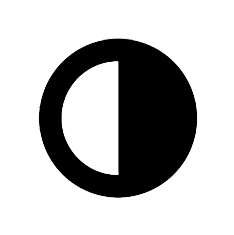
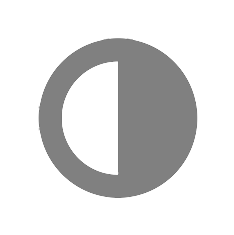
update 12.23

Changed region(s): [[0.1496, 0.1489, 0.8675, 0.8638]]

diff --git a/_includes/header.html b/_includes/header.html
@@ -68,13 +68,13 @@
             </nav><!-- .header__sns -->
             <div class="header__logo sp" >
                 <a href="{{site.url}}">
-                    <p class="header__logoTxt"><img src="{{ site.url }}/img/logo_Nest.png" alt="Riino BLOG"></p>
+                    <p class="header__logoTxt black-white-image"><img src="{{ site.url }}/img/logo_Nest.png" alt="Riino BLOG"></p>
                 </a>
             </div><!-- .header__logo -->
 
             <div class="header__logo sp"   style="margin-left: 20px;" onclick="modeSwitcher()" >
                 <a href="javascript:void(0);">
-                    <p class="header__logoTxt"><img src="{{ site.url }}/img/switcher.png" alt="Riino BLOG"></p>
+                    <p class="header__logoTxt black-white-image"><img src="{{ site.url }}/img/switcher.png" alt="Riino BLOG"></p>
                 </a>
             </div><!-- .swithcer__logo -->
 
@@ -109,65 +109,52 @@ if (systemInitiatedDark.matches) {
     $("#theme-toggle").html("Dark Mode");
     $("#theme-toggle-mobile").html("Dark Mode");
 }
+function setAsLightTheme(){
+    document.documentElement.setAttribute('data-theme', 'light');
+	sessionStorage.setItem('theme', 'light');
+    $("#theme-toggle").html("Dark Mode");
+    $("#theme-toggle-mobile").html("Dark Mode");
+    $('.black-white-image').css("filter",  'brightness(0)');
+};
+function setAsDarkTheme(){
+    document.documentElement.setAttribute('data-theme', 'dark');
+	sessionStorage.setItem('theme', 'dark');
+    $("#theme-toggle").html("Light Mode");
+    $("#theme-toggle-mobile").html("Light Mode");
+    $('.black-white-image').css("filter",  'brightness(100)');
+}
 
 function prefersColorTest(systemInitiatedDark) {
   if (systemInitiatedDark.matches) {
-  	document.documentElement.setAttribute('data-theme', 'dark');		
-	   //document.getElementById("theme-toggle").innerHTML = "Light Mode";
-    $("#theme-toggle").html("Light Mode");
-    $("#theme-toggle-mobile").html("Light Mode");
-    sessionStorage.setItem('theme', '');
+  	setAsDarkTheme();
     console.log("Your default theme is Dark");
   } else {
-  	document.documentElement.setAttribute('data-theme', 'light');
-	//document.getElementById("theme-toggle").innerHTML = "Dark Mode";
-    $("#theme-toggle").html("Dark Mode");
-    $("#theme-toggle-mobile").html("Dark Mode");
-    sessionStorage.setItem('theme', '');
+    setAsLightTheme();
     console.log("Your default theme is Light");
   }
 }
 systemInitiatedDark.addListener(prefersColorTest);
 
 
+
 function modeSwitcher() {
 	let theme = sessionStorage.getItem('theme');
 	if (theme === "dark") {
-		document.documentElement.setAttribute('data-theme', 'light');
-		sessionStorage.setItem('theme', 'light');
-        $("#theme-toggle").html("Dark Mode");
-        $("#theme-toggle-mobile").html("Dark Mode");
-	}	else if (theme === "light") {
-		document.documentElement.setAttribute('data-theme', 'dark');
-		sessionStorage.setItem('theme', 'dark');
-        $("#theme-toggle").html("Light Mode");
-        $("#theme-toggle-mobile").html("Light Mode");
+		setAsLightTheme();
+	} else if (theme === "light") {
+        setAsDarkTheme()
 	} else if (systemInitiatedDark.matches) {	
-		document.documentElement.setAttribute('data-theme', 'light');
-		sessionStorage.setItem('theme', 'light');
-        $("#theme-toggle").html("Dark Mode");
-        $("#theme-toggle-mobile").html("Dark Mode");
+        setAsLightTheme();
 	} else {
-		document.documentElement.setAttribute('data-theme', 'dark');
-		sessionStorage.setItem('theme', 'dark');
-        $("#theme-toggle").html("Light Mode");
-        $("#theme-toggle-mobile").html("Light Mode");
+        setAsDarkTheme();
 	}
-}
+};
 
 
 if (theme == "dark") {
-	document.documentElement.setAttribute('data-theme', 'dark');
-	sessionStorage.setItem('theme', 'dark');
-	//document.getElementById("theme-toggle").innerHTML = "Light Mode";
-    $("#theme-toggle").html("Light Mode");
-    $("#theme-toggle-mobile").html("Light Mode");
+    setAsDarkTheme();
 } else if (theme == "light") {
-	document.documentElement.setAttribute('data-theme', 'light');
-	sessionStorage.setItem('theme', 'light');
-	//document.getElementById("theme-toggle").innerHTML = "Dark Mode";
-    $("#theme-toggle").html("Dark Mode");
-    $("#theme-toggle-mobile").html("Dark Mode");
+    setAsLightTheme();
 }
 
 // //force Dark

diff --git a/_includes/footer.html b/_includes/footer.html
@@ -9,12 +9,12 @@
   <div class="footer__copy">
     <small>Shiqi Riino Zhang</small>
     <small>Legality and internal compliance review by <i>NoE Perspective</i></small>
-    <small>Asserts &copy by <i>Low illuminance</i></small>
+    <small>Image and animte asserts &copy by <i>Low illuminance</i></small>
     <small>All Rights Reserved.</small>
     <ul style="margin-bottom: 0;">
       <li>
         <a href="{{site.github_url}}" target="_blank"
-          ><img src="{{ site.url }}/img/logo_Nest.png" alt="Github" /><span
+          ><img src="{{ site.url }}/img/logo_Nest.png" alt="Github" class=" black-white-image" /><span
             class="glyphicon glyphicon-align-left"
             aria-hidden="true"
           ></span
@@ -22,8 +22,8 @@
       </li>
 
     </ul>
-      <small style="color: black;">Nest of Etamine - 10 Year Anniversary</small>
-      <small style="color: black;">2012-2022</small>
+      <small>Nest of Etamine - 10th Year Anniversary</small>
+      <small>2012-2022</small>
   </div>
   <!-- .footer__copy -->
 </footer>
@@ -81,3 +81,10 @@
   <!-- .menu__inner -->
 </div>
 <!-- .menu -->
+<script>
+  if(sessionStorage.getItem('theme')==="dark"){
+    $('.black-white-image').css("filter",  'brightness(100)');
+  }else{
+    $('.black-white-image').css("filter",  'brightness(0)');
+  };
+</script>

diff --git a/_layouts/post.html b/_layouts/post.html
@@ -41,7 +41,7 @@ layout: default
     {% if page.toc == "inline" %}
     <div>
       {% include toc.html html=content class='toc' h_max=3 %}
-      <section style="height: 100px;"></section>
+      <!-- <section style="height: 100px;"></section> -->
     </div>
     {% endif %}
     {% if page.toc != false and page.toc != "inline"%}

diff --git a/css/post.css b/css/post.css
@@ -107,11 +107,12 @@ p{
 }
 .toc {
   padding-left: 10px !important;
-  text-transform: inherit !important;
+  /* text-transform: inherit !important; */
 }
 
 .toc li a{
   color:var(--link-color);
+  text-transform: none;
 }
 
 .toc li{

diff --git a/css/common.css b/css/common.css
@@ -76,7 +76,6 @@ body {
 /* .home-message__ttl a h2:hover{
   border-bottom:1px solid var(--link-color)!important;
 } */
-
 hr {
   height: 1px;
   background-color: var(--main-text-color);

diff --git a/_posts/2020-7-25-Angular-NGRX.md b/_posts/2020-7-25-Angular-NGRX.md
@@ -3,8 +3,9 @@ layout: post
 title: "Learning Angular NGRX"
 subtitle: 'Component State switch and effects'
 author: "Riino"
-mathjax: true
+mathjax: false
 sticky: false
+toc: inline
 tags:
   Web
   html
@@ -32,9 +33,7 @@ In our cases, our facade class will interact with selector and action, compared 
 
 ![image-20200804211140235](/img/assets/image-20200804211140235.png)
 
-## NGRX: Logic is your code.
-
-### Case study
+## Case study
 
 Suppose we have a component showing a counter's value, it can call facade for **4** operations: 
 
@@ -195,7 +194,7 @@ public ngOnInit():void {
 Normally, we assign var as xxx+$ to mark it as an `Observable Source`.  To capture it's inner source, there's two ways to do that:
 
 1. Declare an observable source in container component, and pass it into child component using html template :
-For example, if we have a `counter-component.bs-container.ts`, and we declare a `public counter$ = Observable<number>;`, and bind it using `this.counter$ = this.facade.counter$;`, we can use it in container's template:
+  For example, if we have a `counter-component.bs-container.ts`, and we declare a `public counter$ = Observable<number>;`, and bind it using `this.counter$ = this.facade.counter$;`, we can use it in container's template:
 ```typescript
 //counter-component.bs-container.ts
 @Component({
@@ -225,8 +224,6 @@ public ngOnInit():void {
     this.counter$.subscribe(i=>this.counter=i);
     this.facade.increaseCounter();
 }
-
-
 ```
 
 ## Deep in Store : RxJS 
@@ -237,7 +234,6 @@ A observable can have a `subscribe` method, to allow you to subscribe it.
 
 ```typescript
 this.counter$.subscribe(i=>this.counter=i);
-
 ```
 
 Also, it have `next` to allow you to update it.
@@ -285,7 +281,7 @@ export class ProfileEffects {
 
 ```
 
-# Ngrx Unit Test
+# @ngrx: Unit Test
 
 We mainly test `reducer` and `selector`.
 

diff --git a/_posts/2020-6-19-Anno.md b/_posts/2020-6-19-Anno.md
@@ -8,24 +8,22 @@ toc: false
 status: Live
 sticky : true
 status: live
-last-modify: Nov 14, 2020
+last-modify: Dec 23, 2020
 ---
-# Dark Theme 
 
-**dark theme** of this website is available now.
+# New Code color design
+
+We are working on new code color design.
 
 # Custom Banner
 
-We are currently developing custom top panel, with optional config in ymal.
-
-
-**riinovibe will take the inherent photography theme,** works as a personal blog with the topic of **life,experience, and beauty**. Want to know more? Go check instagram `@riino_vibe`.
+We are currently developing custom top panel, with optional config in ymal. This will provide a warning message automatically for those old blogs.
 
 # About 'Lab'
 
-The tag 'Lab' in nav bar is an another independent project of mine, when we release first demo, it will be fully available.
+The tag 'Lab' in nav bar is an another independent project of mine, when we release first demo, it will be fully available. Currently We just put a interesting demo made by p5.js there.
 
 # About UI issue in 'Archive'
 
-We don't plan to fix it. Because we prefer to use as less code as possible, while we can maintain the functions work, this is our `Philosophy of Design`
+This will be a low priority issue. We will not fix it in this period.
 
